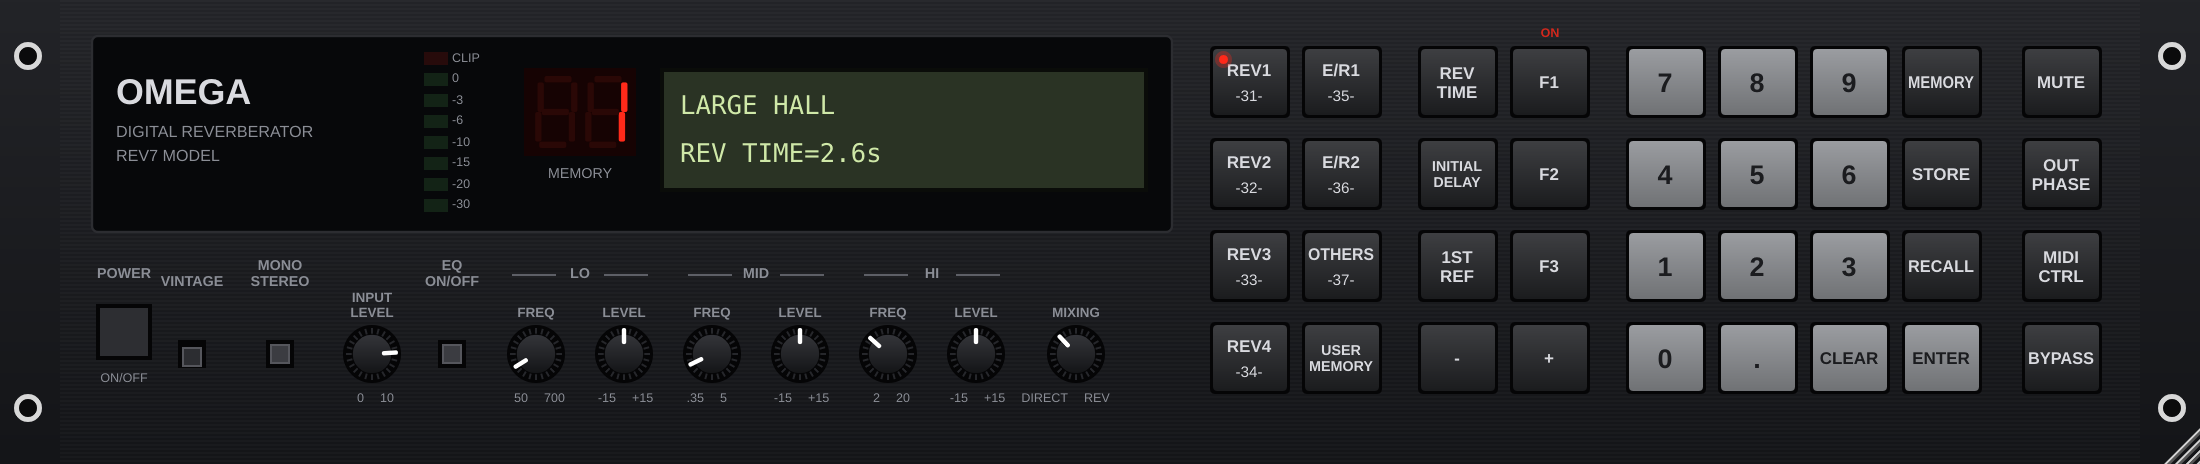
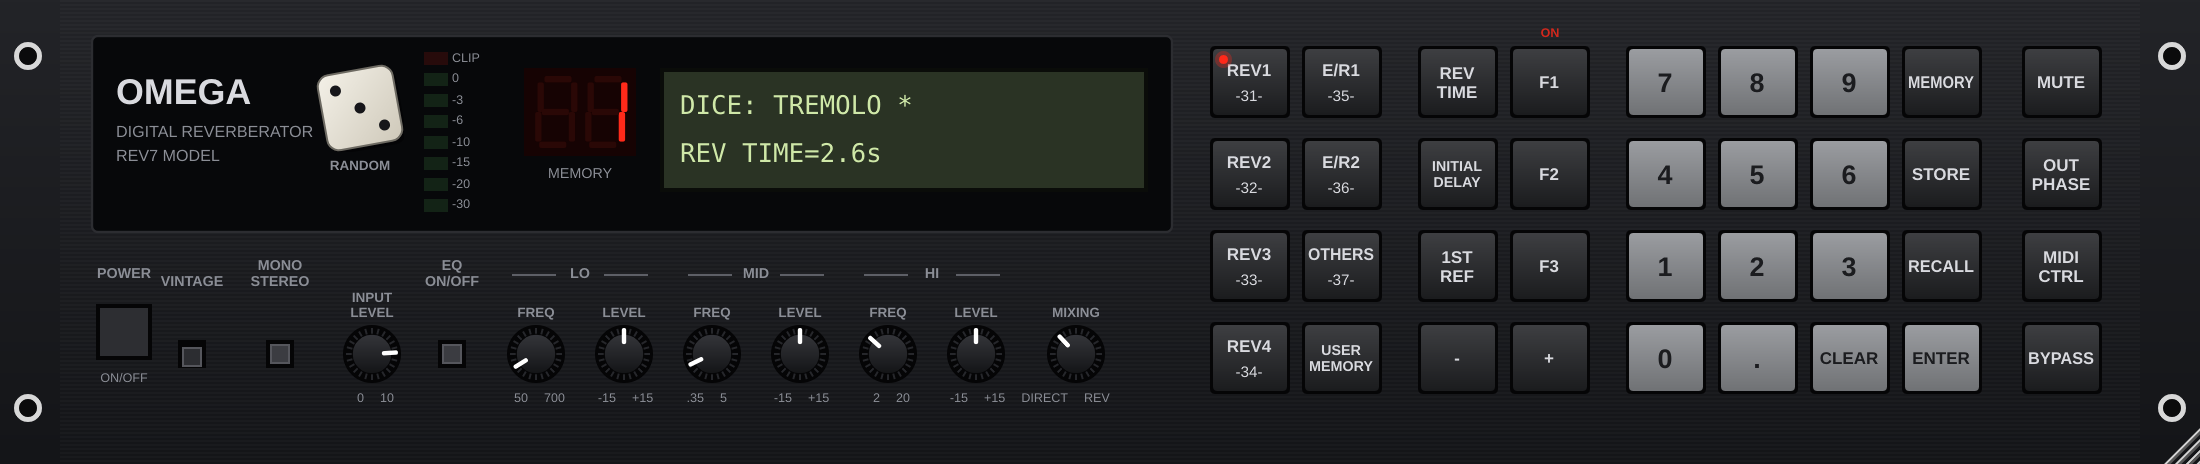
Omega REV7: dice on the panel for a random preset or random settings
Click: a random preset from all 144. Shift-click / right-click (or R / Shift+R):
a random program with its parameters rolled within useful ranges for its type.
rev7_shot rolls the dice 200 times with audio running and checks the output.

Claude-Session: https://claude.ai/code/session_01UXixvdfbvy8uxa75oi2XQv

Changed region(s): [[0.1236, 0.1207, 0.1855, 0.3621], [0.3091, 0.181, 0.4018, 0.2716]]

diff --git a/plugins/src/Rev7Editor.cpp b/plugins/src/Rev7Editor.cpp
@@ -115,6 +115,31 @@ public:
     }
 };
 
+// the dice in the display window: click for a random preset, shift-click or right-click for new random settings
+class Dice : public juce::Component, public juce::SettableTooltipClient {
+public:
+    std::function<void(bool settings)> onRoll;
+    int face = 5; double rollUntil = 0;
+    void paint(juce::Graphics& g) override {
+        const bool rolling = rollUntil > juce::Time::getMillisecondCounterHiRes();
+        auto r = getLocalBounds().toFloat().reduced(3);
+        g.addTransform(juce::AffineTransform::rotation(rolling ? (float) ((face % 3) - 1) * .18f : -.08f, r.getCentreX(), r.getCentreY()));
+        g.setColour(juce::Colour(0x66000000)); g.fillRoundedRectangle(r.translated(1.5f, 2), 6);
+        g.setGradientFill(juce::ColourGradient(juce::Colour(0xfff4f1e8), r.getX(), r.getY(), juce::Colour(0xffcfc9ba), r.getRight(), r.getBottom(), false));
+        g.fillRoundedRectangle(r, 6); g.setColour(juce::Colour(0xff6d6a62)); g.drawRoundedRectangle(r, 6, 1.f);
+        static const int pips[7][6][2] = {{}, {{1, 1}}, {{0, 0}, {2, 2}}, {{0, 0}, {1, 1}, {2, 2}}, {{0, 0}, {2, 0}, {0, 2}, {2, 2}},
+                                          {{0, 0}, {2, 0}, {1, 1}, {0, 2}, {2, 2}}, {{0, 0}, {2, 0}, {0, 1}, {2, 1}, {0, 2}, {2, 2}}};
+        const float cell = r.getWidth() / 3.6f, pr = cell * .26f;
+        g.setColour(face == 1 ? juce::Colour(0xffc81e1e) : juce::Colour(0xff16161a));
+        for (int i = 0; i < face; ++i) {
+            const float cx = r.getCentreX() + (pips[face][i][0] - 1) * cell, cy = r.getCentreY() + (pips[face][i][1] - 1) * cell;
+            g.fillEllipse(cx - pr, cy - pr, pr * 2, pr * 2);
+        }
+    }
+    void mouseDown(const juce::MouseEvent& e) override { if (onRoll) onRoll(e.mods.isShiftDown() || e.mods.isPopupMenu()); }
+    void mouseEnter(const juce::MouseEvent&) override { setMouseCursor(juce::MouseCursor::PointingHandCursor); }
+};
+
 class Panel : public juce::Component, private juce::Timer {
 public:
     explicit Panel(Processor& p) : proc(p), st(p.state()) {
@@ -173,6 +198,8 @@ public:
         key(new Key("BYPASS"), out, top + 3 * dy, [tog] { tog("bypass"); }, [on] { return on("bypass"); });
         for (auto* k : keys) k->setWantsKeyboardFocus(false);
         setWantsKeyboardFocus(true);
+        dice.setBounds(158, 32, 44, 44); dice.setTooltip("Dice: click for a random preset, shift-click or right-click for new random settings (keys: R / Shift+R)"); addAndMakeVisible(dice);
+        dice.onRoll = [this](bool settings) { roll(settings); };
         startTimerHz(30);
     }
     ~Panel() override { setLookAndFeel(nullptr); }
@@ -213,6 +240,8 @@ public:
         // labels under the display
         g.setColour(kDim); g.setFont(juce::FontOptions(8.f, juce::Font::bold));
         auto lab = [&](const juce::String& t, int x, int y, int w = 60) { g.drawFittedText(t, x - w / 2, y, w, 18, juce::Justification::centred, 2); };
+        g.setColour(kDim); g.setFont(juce::FontOptions(7.5f, juce::Font::bold)); g.drawText("RANDOM", 150, 78, 60, 10, juce::Justification::centred);
+        g.setFont(juce::FontOptions(8.f, juce::Font::bold));
         lab("POWER", 62, 128); lab("VINTAGE", 96, 132); lab("MONO\nSTEREO", 140, 128); lab("EQ\nON/OFF", 226, 128);
         lab("LO", 290, 128); lab("MID", 378, 128); lab("HI", 466, 128);
         g.setColour(kDim.withAlpha(.6f));
@@ -236,6 +265,7 @@ public:
         if ((c >= '0' && c <= '9') || c == '.') { type(juce::String::charToString(c)); return true; }
         if (k == juce::KeyPress::returnKey) { enter(false); return true; }
         if (k == juce::KeyPress::backspaceKey || k == juce::KeyPress::escapeKey) { type("CLEAR"); return true; }
+        if (c == 'r' || c == 'R') { roll(k.getModifiers().isShiftDown()); return true; }
         if (c == '+' || c == '=') { step(1); return true; } if (c == '-') { step(-1); return true; }
         return false;
     }
@@ -351,6 +381,39 @@ private:
                                              {x, y + hh, t, hh - t}, {x, y + t, t, hh - t}, {x + t, y + hh - t / 2, w - 2 * t, t}};
         for (int i = 0; i < 7; ++i) { g.setColour(s >> i & 1 ? kRed : juce::Colour(0xff2a0806)); g.fillRoundedRectangle(r[i].translated(-(r[i].getY() - y) * .08f + 2, 0), 1.f); }
     }
+    // the dice: a random preset from all of them, or (settings) a random program with new settings, kept musical
+    void roll(bool settings) {
+        dice.face = rng.nextInt({1, 7}); dice.rollUntil = juce::Time::getMillisecondCounterHiRes() + 450;
+        edit = {}; entry.clear(); userSlot = 0;
+        const int n = proc.getNumPrograms();
+        if (!settings) {
+            int i = rng.nextInt(n); if (n > 1) while (i == proc.getCurrentProgram()) i = rng.nextInt(n);
+            proc.setCurrentProgram(i);
+            juce::String nm = proc.getProgramName(i); if (nm.contains(" / ")) nm = nm.fromFirstOccurrenceOf(" / ", false, false);
+            lcdMsg("DICE: " + nm.toUpperCase().substring(0, 14), 2.0); return;
+        }
+        const int prog = rng.nextInt({1, 31});
+        proc.setCurrentProgram(prog - 1);   // its factory values first, then roll the ones that matter for its type
+        auto r = [this](double a, double b) { return a + (b - a) * rng.nextDouble(); };
+        auto rl = [this](double a, double b) { return a * std::pow(b / a, rng.nextDouble()); };   // log-spread
+        switch (kind()) {
+            case K::REV: setVal("rt", rl(.5, 5)); setVal("hi", r(.2, .8)); setVal("lo", r(.6, 1.8)); setVal("diff", std::round(r(3, 10))); setVal("idly", rl(1, 70)); break;
+            case K::ER: setVal("live", std::round(r(1, 9))); setVal("mode", rng.nextInt({1, 7})); setVal("size", rl(.6, 5)); setVal("diff", std::round(r(2, 9))); setVal("idly", rl(1, 35)); break;
+            case K::DLY: setVal("dlyL", rl(40, 600)); setVal("dlyR", rl(40, 600)); setVal("dlev", r(.4, .9)); break;
+            case K::ECHO: { const double d = rl(80, 450); setVal("fb", r(.15, .65)); setVal("dlyL", d); setVal("dlyR", juce::jlimit(.1, 450.0, d * r(.7, 1.4))); setVal("hdamp", std::round(r(2, 9))); break; }
+            case K::FLANGE: setVal("fb", r(.1, .8)); setVal("mfreq", rl(.1, 3)); setVal("mdep", r(.3, 1)); setVal("mdly", rl(.5, 4)); break;
+            case K::RFLANGE: setVal("rt", rl(1, 4)); setVal("mfreq", rl(.1, 2)); setVal("mdep", r(.3, 1)); setVal("mdly", rl(.5, 4)); break;
+            case K::CHORUS: setVal("mfreq", rl(.1, 2)); setVal("mdep", r(.2, .9)); setVal("amdep", r(0, .5)); break;
+            case K::PHASE: setVal("mfreq", rl(.1, 3)); setVal("mdep", r(.3, 1)); setVal("mdly", rl(.5, 6)); break;
+            case K::TREM: setVal("mfreq", r(2, 8)); setVal("mdep", r(.2, .7)); break;
+            case K::SYMPH: setVal("mfreq", rl(.2, 1.5)); setVal("mdep", r(.3, .9)); break;
+        }
+        if (rng.nextDouble() < .3) { setVal("fdly", rl(5, 60)); setVal("flev", r(.2, .6)); }
+        setVal("omix", r(.2, .45));
+        userDirty = true;
+        lcdMsg(juce::String("DICE: ") + rev7Name(prog) + " *", 2.0);
+    }
+
     void timerCallback() override {
         lvl = proc.engineLevel(); blink = (juce::Time::getMillisecondCounter() / 350) % 2 == 0;
         // leave a user slot shown only until something is changed by hand
@@ -364,6 +427,7 @@ private:
     juce::OwnedArray<juce::Slider> knobs; juce::OwnedArray<juce::AudioProcessorValueTreeState::SliderAttachment> kat;
     juce::OwnedArray<Switch> switches; juce::OwnedArray<juce::AudioProcessorValueTreeState::ButtonAttachment> bat;
     juce::OwnedArray<Key> keys;
+    Dice dice; juce::Random rng;
     std::vector<Lab> labels;
     const juce::Rectangle<float> lcdArea { 330, 34, 244, 62 };
     juce::String edit, entry, msg; double msgUntil = 0;
@@ -381,6 +445,7 @@ public:
     void resized() override { panel.setTransform(juce::AffineTransform::scale((float) getWidth() / W)); }
 private:
     Panel panel;
+    juce::TooltipWindow tips { this, 600 };
 };
 
 }  // namespace

diff --git a/plugins/tools/rev7_shot.cpp b/plugins/tools/rev7_shot.cpp
@@ -1,13 +1,37 @@
 // Draws the Omega REV7 front panel to a PNG without a host: rev7_shot <out.png> [scale]
+// It also rolls the panel's dice 200 times (presets and random settings) with audio running, and fails on bad output.
 #include "../common/Plugin.h"
 int main(int argc, char** argv) {
     juce::ScopedJuceInitialiser_GUI gui;
     omega::Processor p; p.prepareToPlay(48000, 512);
     p.setCurrentProgram(0);
     std::unique_ptr<juce::AudioProcessorEditor> ed(p.createEditor());
+    // roll the dice: find it on the panel and press it, both ways
+    std::function<juce::Component*(juce::Component*)> findDice = [&](juce::Component* c) -> juce::Component* {
+        if (auto* t = dynamic_cast<juce::SettableTooltipClient*>(c)) if (t->getTooltip().startsWith("Dice")) return c;
+        for (auto* k : c->getChildren()) if (auto* d = findDice(k)) return d; return nullptr; };
+    int bad = 0;
+    if (auto* dice = findDice(ed.get())) {
+        juce::AudioBuffer<float> b(2, 512); juce::MidiBuffer midi;
+        for (int i = 0; i < 200; ++i) {
+            auto e = juce::MouseEvent(juce::Desktop::getInstance().getMainMouseSource(), {10, 10}, i % 2 ? juce::ModifierKeys::shiftModifier : juce::ModifierKeys(),
+                                      1.f, 0, 0, 0, 0, dice, dice, juce::Time::getCurrentTime(), {10, 10}, juce::Time::getCurrentTime(), 1, false);
+            dice->mouseDown(e);
+            float pk = 0;
+            for (int blk = 0; blk < 60; ++blk) {
+                for (int c = 0; c < 2; ++c) for (int n = 0; n < 512; ++n) b.setSample(c, n, blk < 10 ? (float) std::sin(n * .07) * .5f : 0.f);
+                p.processBlock(b, midi);
+                for (int c = 0; c < 2; ++c) for (int n = 0; n < 512; ++n) { const float v = b.getSample(c, n); if (!std::isfinite(v)) pk = 99; pk = std::max(pk, std::fabs(v)); }
+            }
+            if (pk > 3) { bad++; std::printf("FAIL roll %d: %s peak %.2f\n", i, p.getProgramName(p.getCurrentProgram()).toRawUTF8(), pk); }
+        }
+        std::printf("dice: 200 rolls, %d bad\n", bad);
+    } else { std::puts("FAIL no dice"); bad++; }
+    p.setCurrentProgram(0);
     const float scale = argc > 2 ? (float) std::atof(argv[2]) : 2.f;
     auto img = ed->createComponentSnapshot(ed->getLocalBounds(), true, scale);
     juce::File f(juce::String::fromUTF8(argc > 1 ? argv[1] : "rev7.png")); f.deleteFile();
     juce::FileOutputStream os(f); juce::PNGImageFormat().writeImageToStream(img, os);
     std::printf("%dx%d\n", img.getWidth(), img.getHeight());
+    return bad ? 1 : 0;
 }

diff --git a/plugins/README.md b/plugins/README.md
@@ -55,6 +55,9 @@ A model of the Yamaha REV7 digital reverberator (1985), built from its service m
   INITIAL DELAY, 1ST REF and F1-F3 pick a parameter, and what F1-F3 do depends on the program type, as on the unit.
   Change it with -/+, the mouse wheel on the LCD, or by typing a value and pressing ENTER. Click the LCD for the full
   preset menu. MUTE, OUT PHASE (inverts the wet signal) and BYPASS all work. The window resizes.
+  The **dice** in the display window rolls a random preset from all 144. Shift-click or right-click it to roll new
+  settings instead: a random program (1-30) whose parameters are rolled within useful ranges for its type. The keys
+  are R and Shift+R. `rev7_shot` rolls it 200 times with audio running as a test.
 - **Not from the unit**: the DSP coefficients and the reflection patterns. Yamaha's microcode and preset data live in
   the unit's 16 KB EPROM, and this model does not use or include that firmware. These values are this model's own,
   written to match the manual's descriptions. The REV TIME values for presets 16-18 are estimates, since the chart has
